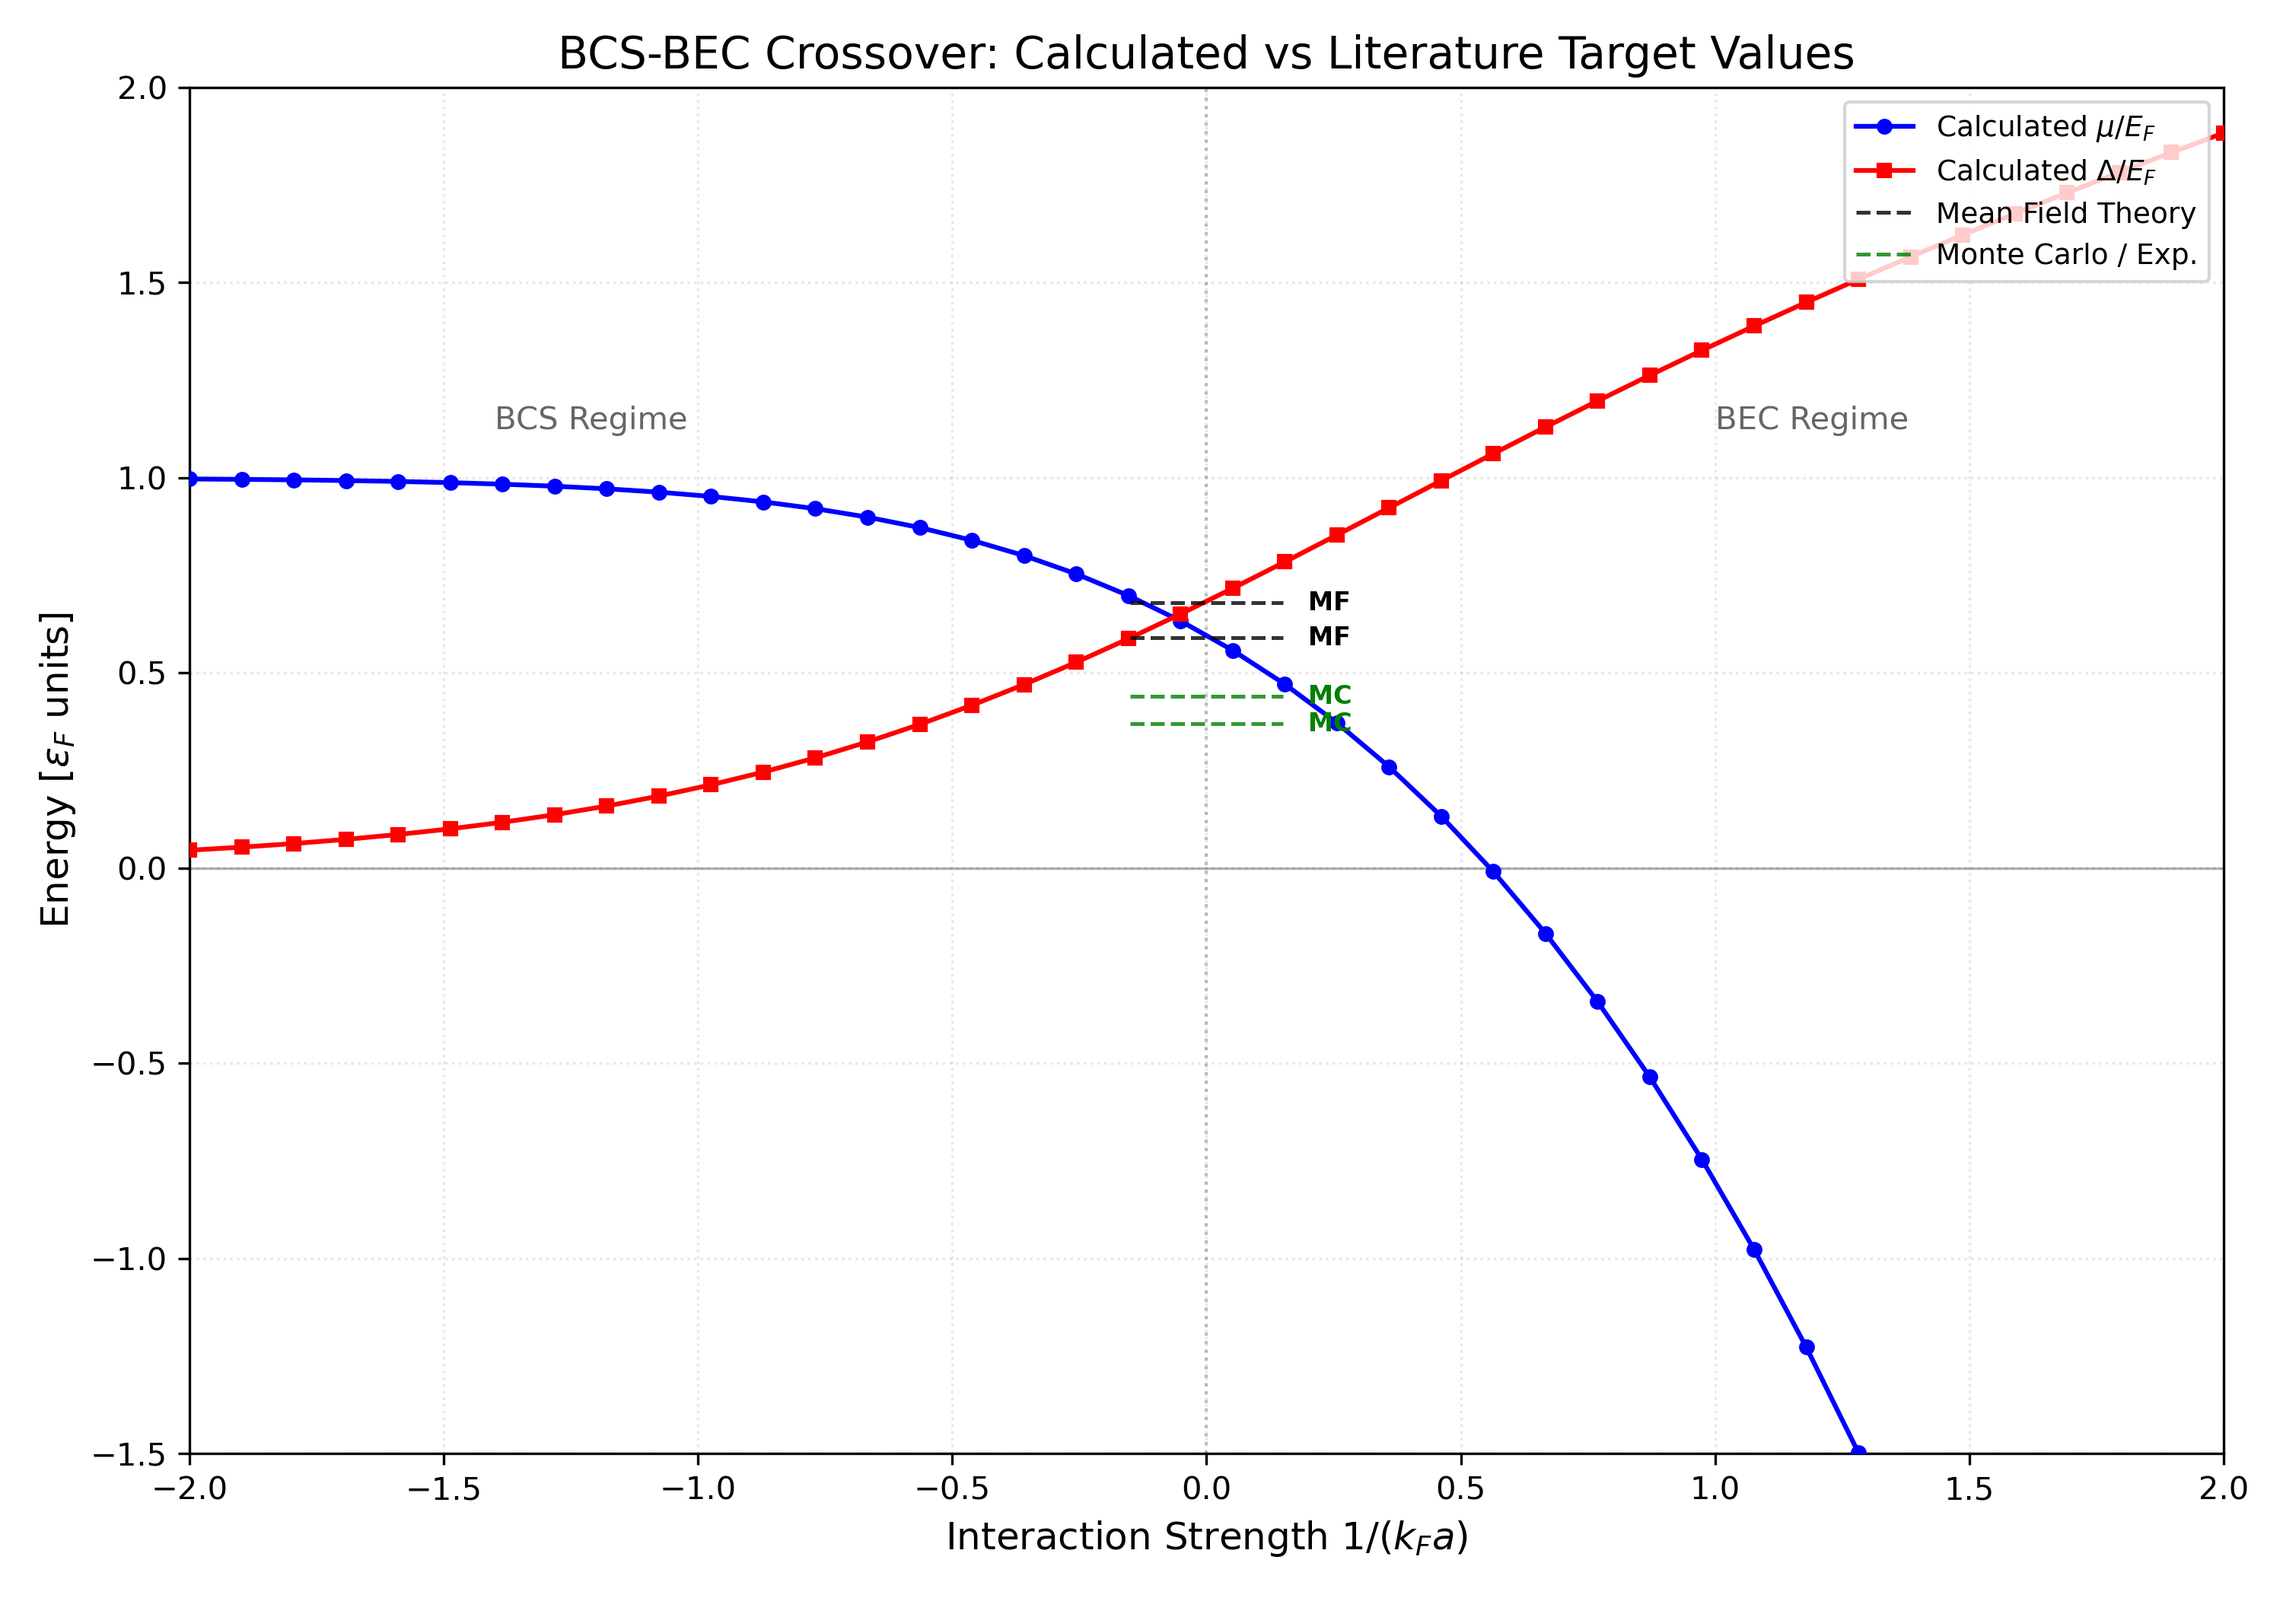
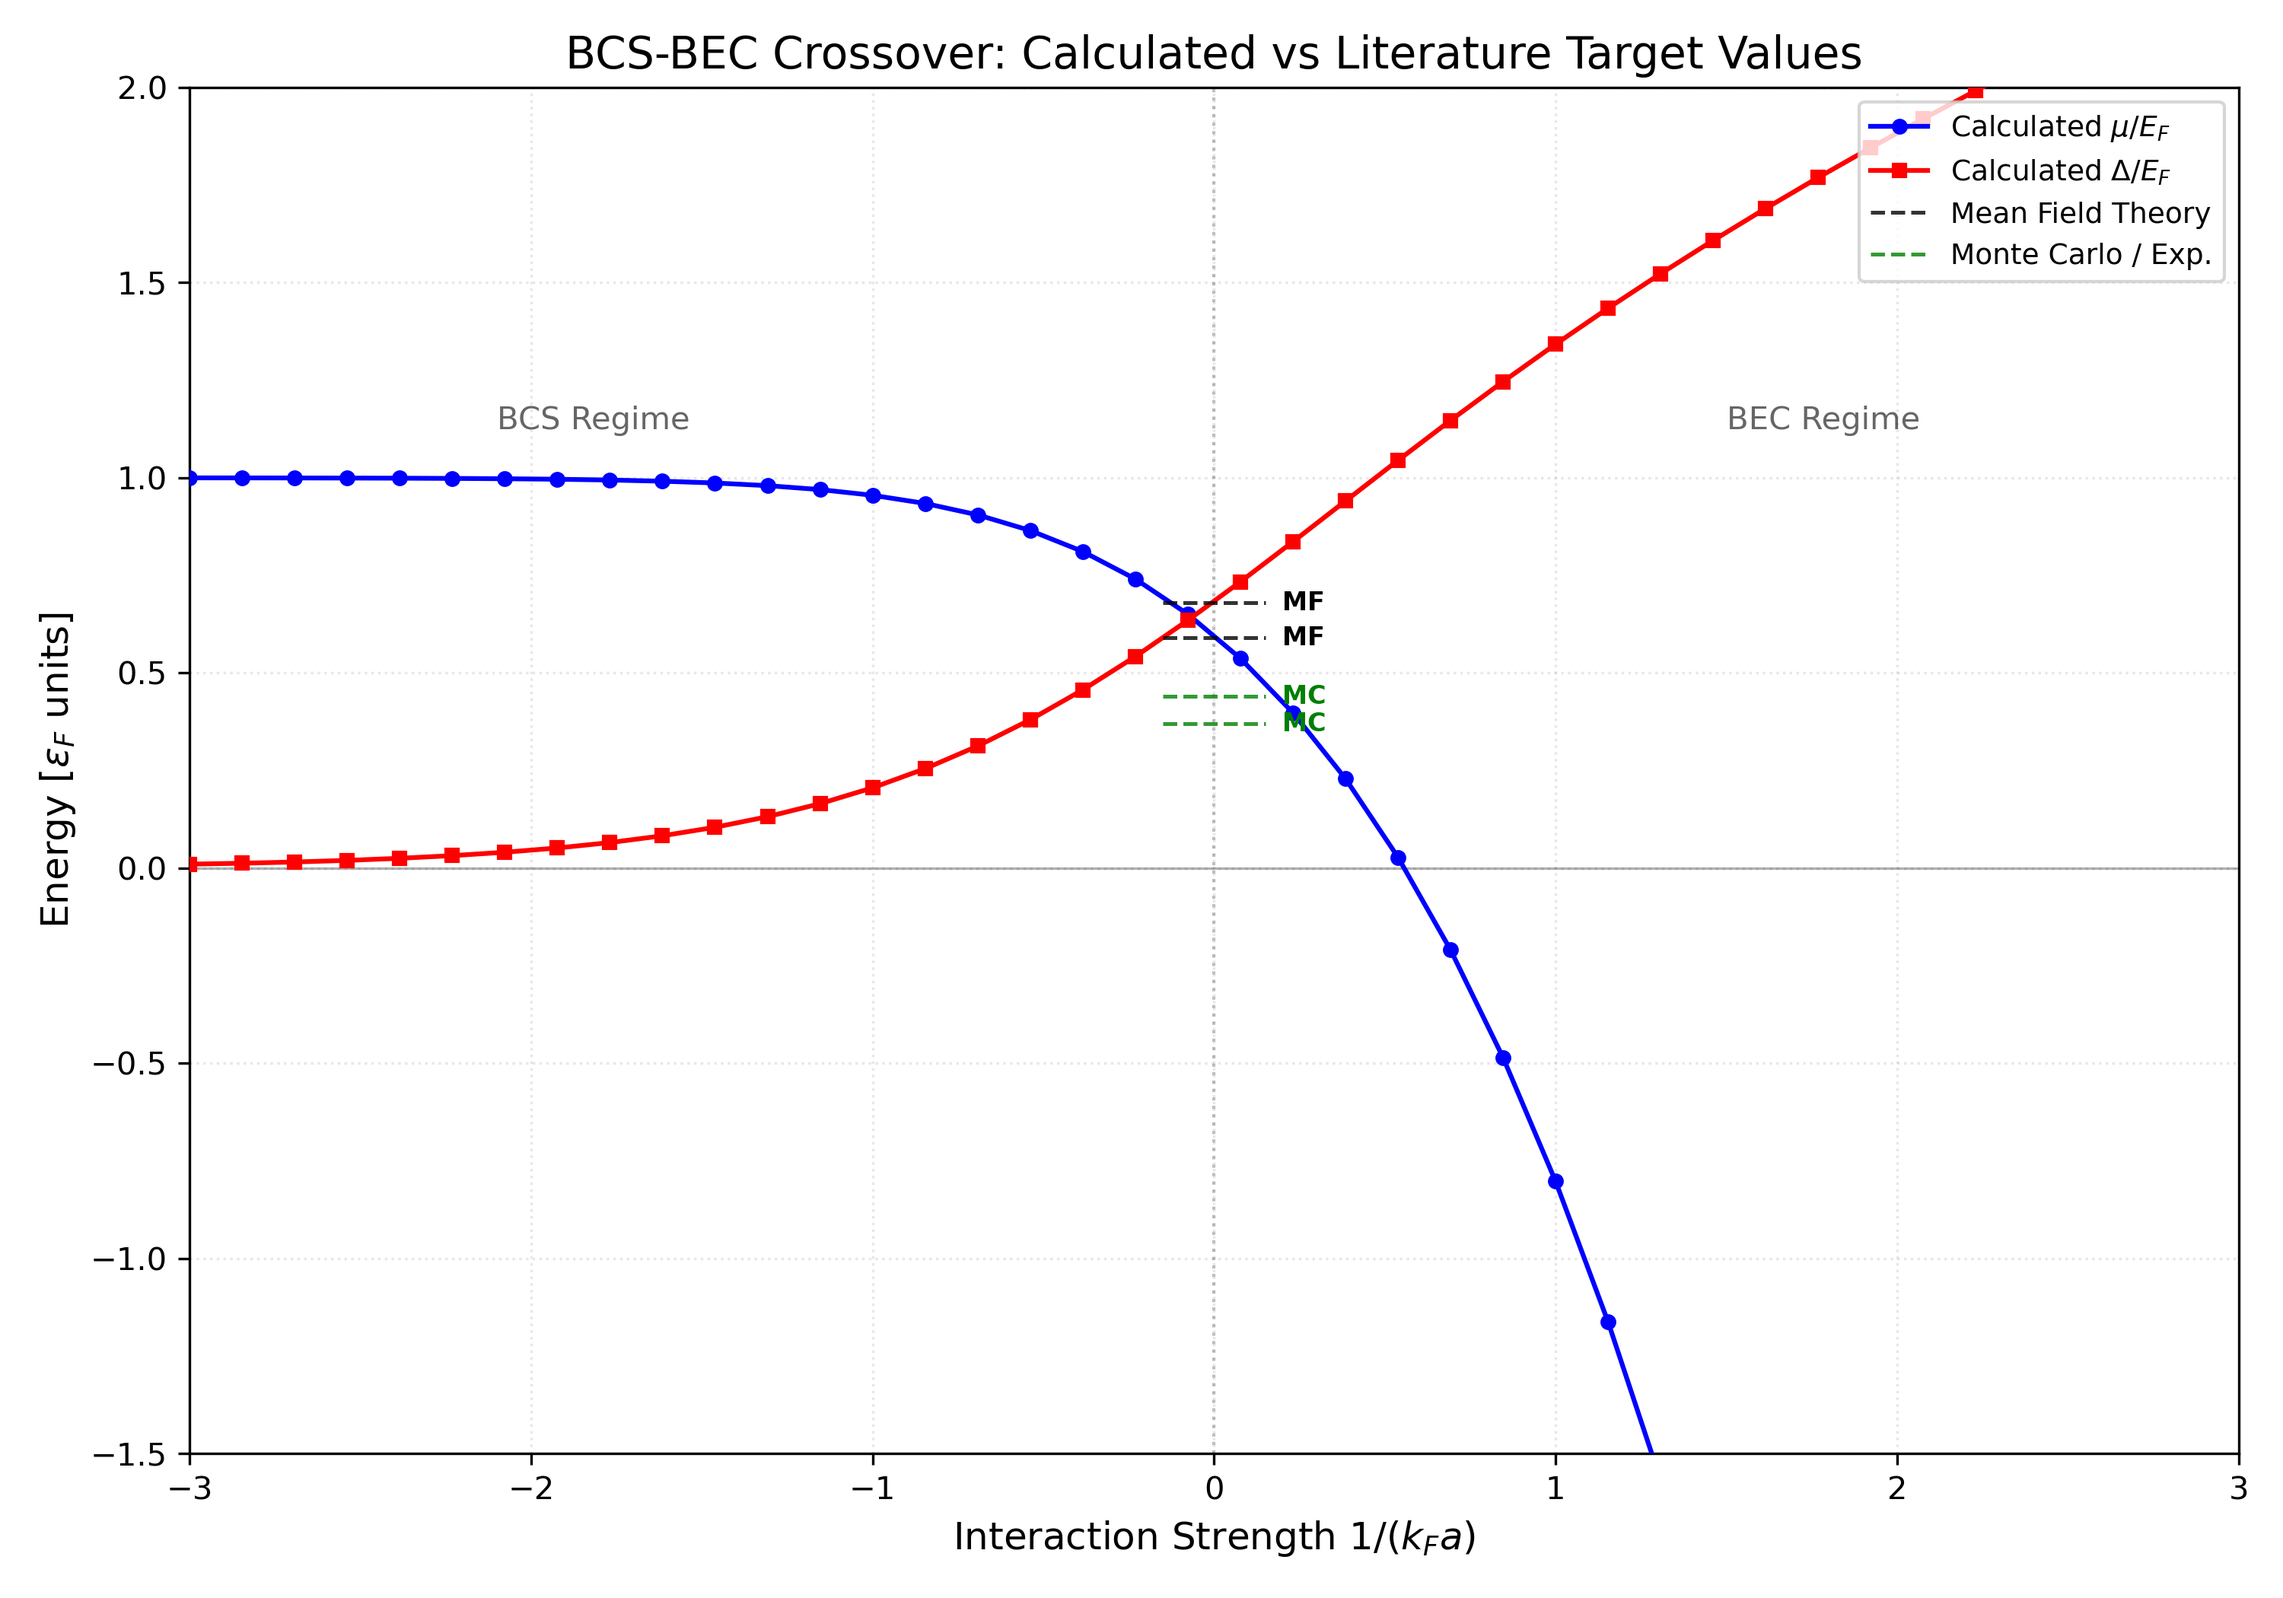
Added new plot for energy as a function of ratio

diff --git a/src/plotting.py b/src/plotting.py
@@ -79,3 +79,76 @@ def plot_bcs_bec_crossover(interaction_range, mu_vals, delta_vals, save_path=Non
         print(f"Plot saved in {file_name}")
 
     plt.show()
+
+
+def plot_physical_regimes(interaction_range, mu_vals, delta_vals, save_path=None):
+    """
+    Generates an infographic-style plot of the BCS-BEC crossover.
+    X-axis: ratio of Chemical Potential to Gap (mu / Delta)
+    Y-axis: normalized binding energy (epsilon_B / EF)
+    """
+    
+    # 1. PHYSICAL CONSTANTS
+    # In units where m=1, EF = 0.5 * kF^2. 
+    # The vacuum binding energy epsilon_B = 1 / (m * a^2).
+    # Thus, epsilon_B / EF = (1/a^2) / (kF^2 / 2) = 2 * (1 / kFa)^2.
+    # Note: Binding energy in vacuum only exists for 1/kFa > 0 (BEC side).
+    eb_over_ef = np.where(interaction_range > 0, 2.0 * (interaction_range)**2, 0)
+    
+    # 2. X-AXIS RATIO
+    # The image plots the trajectory in the (mu/Delta) space.
+    ratio_mu_delta = mu_vals / delta_vals
+
+    plt.figure(figsize=(10, 7))
+
+    # 3. CROSSOVER GRADIENT (The green 'glow' area)
+    # We create a smooth green gradient centered at mu/Delta = 0
+    for i in range(60):
+        # Gaussian alpha for the glow effect
+        alpha_val = 0.4 * np.exp(- (i-30)**2 / 150)
+        plt.axvspan(-1.5 + i*0.05, -1.5 + (i+1)*0.05, color='green', alpha=alpha_val, zorder=1)
+
+    # 4. MAIN CURVE
+    # Black line showing the relation between binding energy and the mu/Delta ratio
+    plt.plot(ratio_mu_delta, eb_over_ef, color='black', linewidth=2.5, zorder=5)
+
+    # 5. REGIME LABELS (Rounded boxes)
+    bbox_style = dict(boxstyle="round,pad=0.6", fc="white", ec="black", lw=1)
+    # Positions match the three main regimes: BEC, Crossover, and BCS
+    plt.text(-3.8, 18.5, "BEC", ha="center", bbox=bbox_style, fontsize=12, fontweight='bold', color='navy')
+    plt.text(0, 18.5, "BCS-BEC\ncrossover", ha="center", bbox=bbox_style, fontsize=10, fontweight='bold', color='red')
+    plt.text(3.8, 18.5, "BCS", ha="center", bbox=bbox_style, fontsize=12, fontweight='bold', color='navy')
+
+    # 6. SCHEMATIC PAIRS (Visual representation of atoms)
+    
+    # BEC Side: Tightly bound, localized pairs
+    plt.scatter([-4.2, -4.0, -3.2, -3.4], [13.5, 14.2, 12.5, 8.5], c='blue', s=80, zorder=10, edgecolors='gray')
+    plt.scatter([-4.1, -3.9, -3.1, -3.3], [13.2, 13.9, 12.2, 8.2], c='red', s=80, zorder=10, edgecolors='gray')
+    
+    # BCS Side: Large, overlapping Cooper pairs (represented with transparent lines)
+    for i in range(5):
+        rx, ry = np.random.uniform(2.5, 4.5), np.random.uniform(8, 15)
+        # Large faint bonds representing delocalized pairs
+        plt.plot([rx, rx+1.2], [ry, ry-0.6], color='red', alpha=0.15, lw=8, solid_capstyle='round')
+        plt.scatter([rx, rx+1.2], [ry, ry-0.6], c=['red', 'blue'], s=70, alpha=0.7, zorder=10)
+
+    # 7. AXIS FORMATTING
+    plt.xlabel(r"$\mu / \Delta$", fontsize=14)
+    plt.ylabel(r"$\epsilon_B / \epsilon_F$", fontsize=14)
+    
+    # Limits set to match the reference image exactly
+    plt.xlim(-5, 5)
+    plt.ylim(0, 20)
+    
+    plt.axhline(0, color='black', lw=1.2)
+    plt.grid(alpha=0.15, linestyle=':')
+    plt.tight_layout()
+
+    # 8. SAVE OUTPUT
+    if save_path:
+        out_file = os.path.join(save_path, "regimes_infographic.png")
+        plt.savefig(out_file, dpi=300)
+        print(f"Infographic saved to {out_file}")
+
+    plt.show()
+

diff --git a/main.py b/main.py
@@ -13,7 +13,7 @@ from src.config import k_max, N, n_target, EF
 from src.physics import create_k_grid
 from src.solver import solve_bcs_system
 from src.plotting import plot_bcs_bec_crossover
-
+from src.plotting import plot_physical_regimes
 
 #1. SETUP
 # k_max and N are now taken from config.py
@@ -28,7 +28,7 @@ results = []
 
 # Define the range for the dimensionless interaction parameter 1/(kF * a)
 # Usually from -2 (BCS) to +2 (BEC)
-interaction_range = np.linspace(-2.0, 2.0, 40) 
+interaction_range = np.linspace(-3.0, 3.0, 40) 
 # initial_guess: We start with a guess close to the BCS limit (mu ~ EF, Delta small).
 # This guess will be updated dynamically to improve convergence.
 current_guess = [EF, 0.1]
@@ -61,6 +61,9 @@ for x in interaction_range:
 results_array = np.array(results)
 # NORMALIZATION: Divide by EF to get dimensionless units (mu/EF and Delta/EF)
 # This ensures the BCS limit starts at 1.0, which is physically correct.
+mu_vals= results_array[:, 0] 
+delta_vals = results_array[:, 1] 
+
 mu_vals_normalized = results_array[:, 0] / EF
 delta_vals_normalized = results_array[:, 1] / EF
 
@@ -82,3 +85,4 @@ print(f"Numerical data saved in {output_folder}/crossover_data.txt")
 # =============================================================================
 # Pass the folder path to the plot function to save the image
 plot_bcs_bec_crossover(interaction_range, mu_vals_normalized, delta_vals_normalized, save_path=output_folder)
+plot_physical_regimes(interaction_range, mu_vals, delta_vals)
